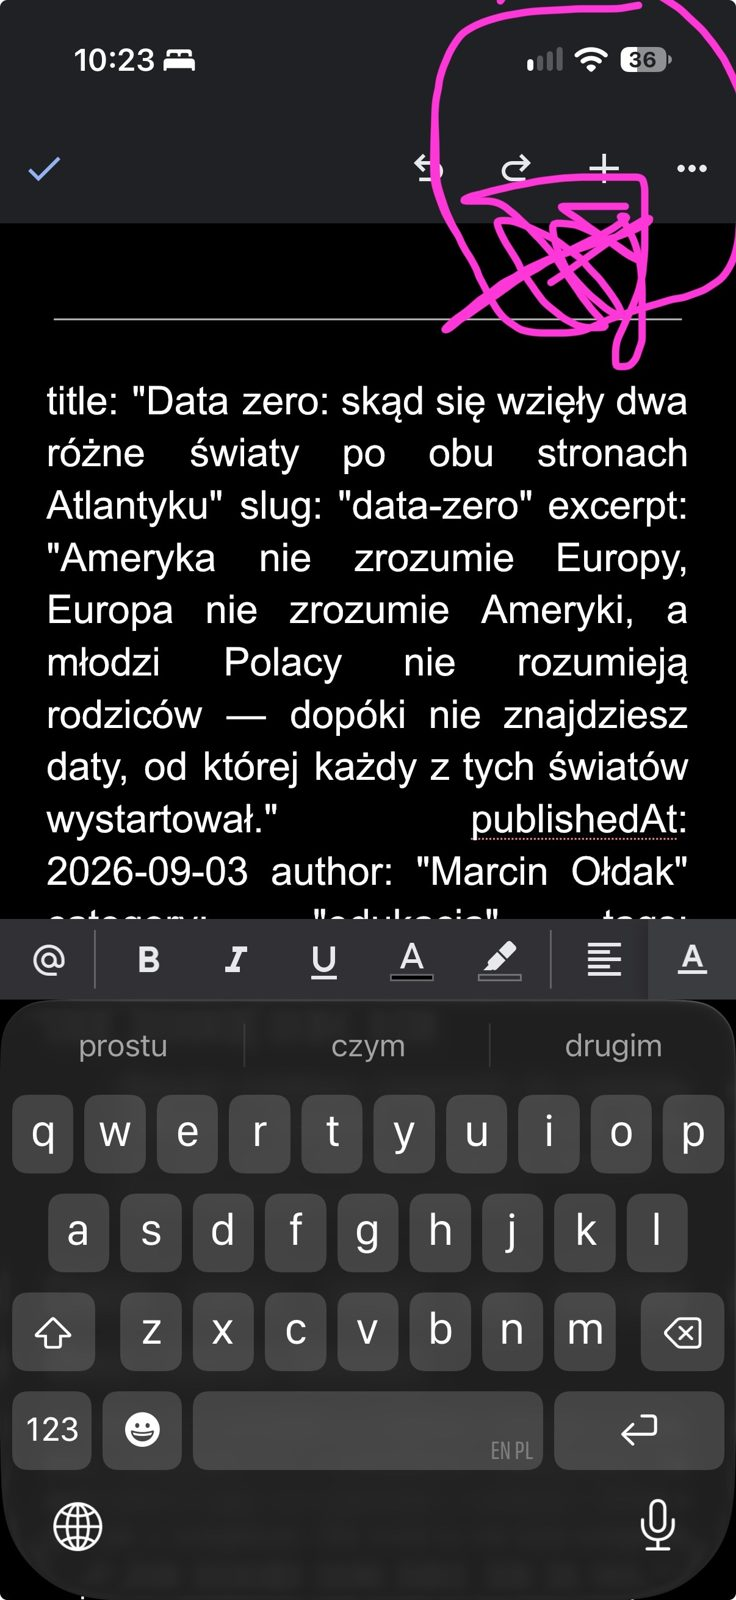
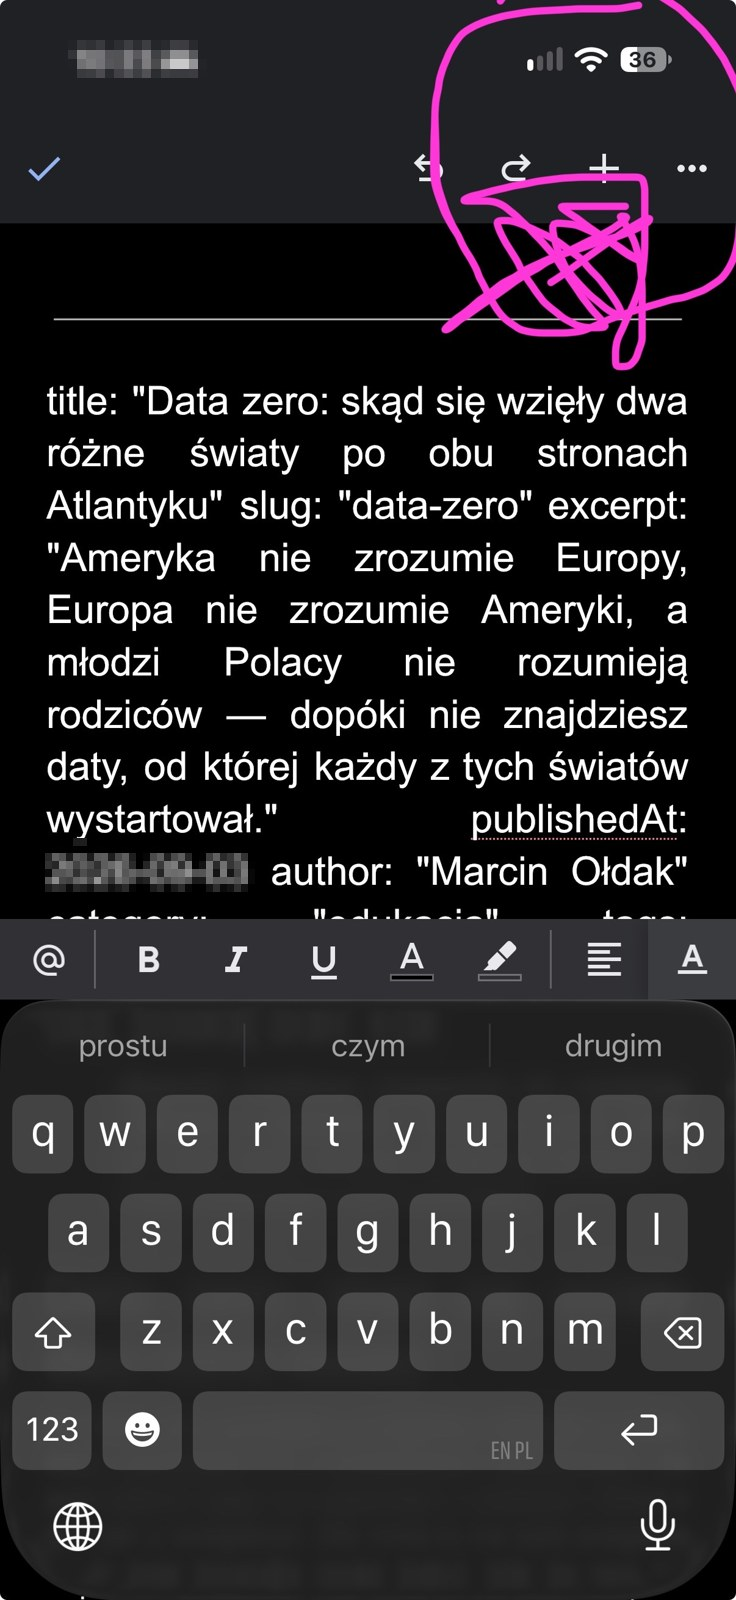
fotoesej: pikselizacja godzin i daty na zrzutach
07-notatka: zapikselowana godzina w pasku statusu i data publishedAt
(2026-09-03) w treści notatki. 08-rozdzial, 09-awizo: zapikselowana godzina.
Podpis VII bez daty („Notatka z września"), żeby nie odtwarzał zapikselowanej treści.
Zdjęcia przetworzone od nowa z oryginałów, EXIF czysty.

Changed region(s): [[0.0625, 0.5312, 0.3438, 0.5625], [0.0938, 0.0, 0.2812, 0.0625]]

diff --git a/mj-oldak/src/content/articles/zimujacy.md b/mj-oldak/src/content/articles/zimujacy.md
@@ -141,7 +141,7 @@ Zdjęcia, które nie były robione do tego tekstu. Ułożone razem, mają wspól
 
 <figure>
   <img src="/articles/zimujacy/07-notatka.jpg" alt="Zrzut ekranu notatki z metadanymi artykułu" loading="lazy" />
-  <figcaption><span class="num">VII</span>Notatka z 3 września, w telefonie, z kursorem w środku zdania. Zdanie o dwóch światach po obu stronach Atlantyku było wtedy tylko wpisem w polu „excerpt".</figcaption>
+  <figcaption><span class="num">VII</span>Notatka z września, w telefonie, z kursorem w środku zdania. Zdanie o dwóch światach po obu stronach Atlantyku było wtedy tylko wpisem w polu „excerpt".</figcaption>
 </figure>
 
 <figure>
